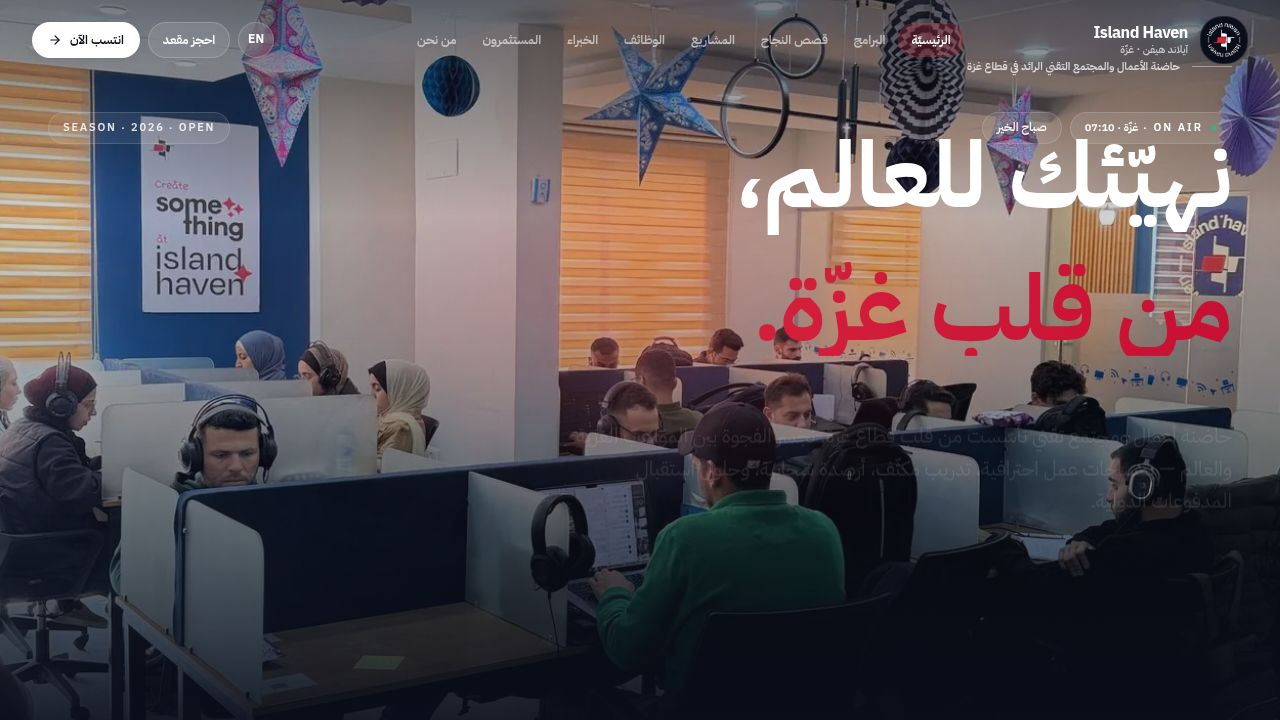
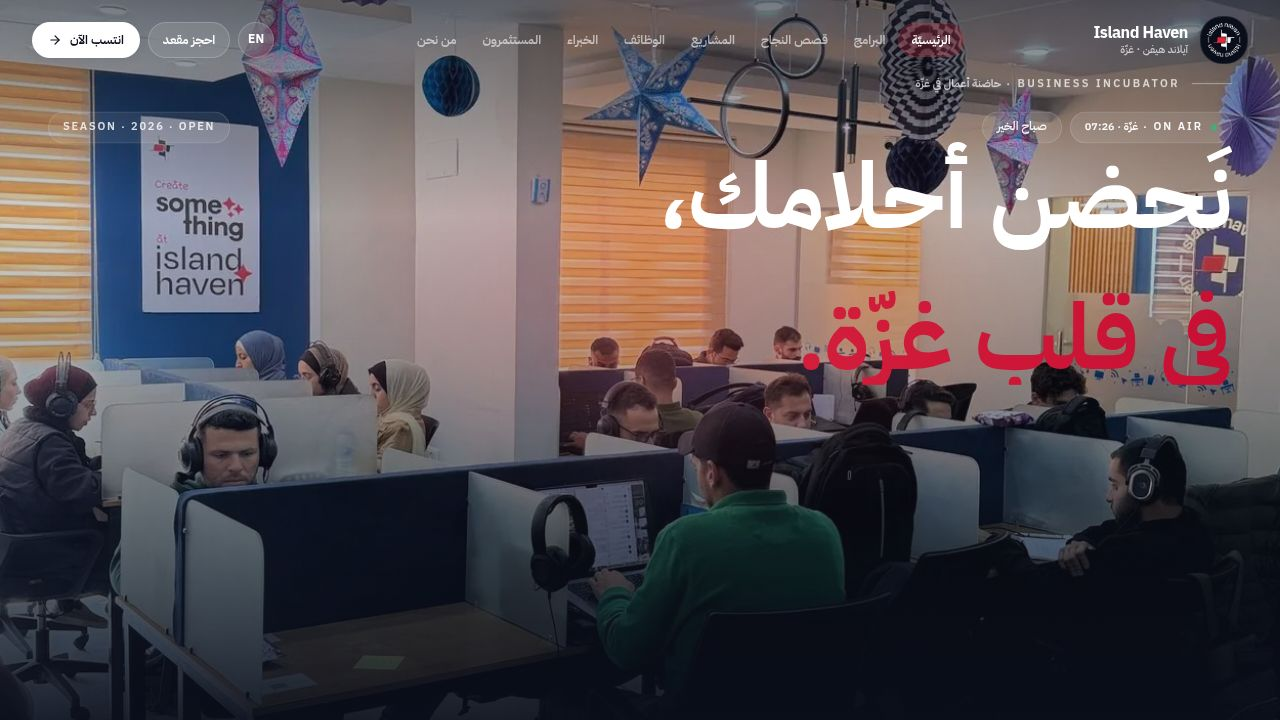
feat: ask for confirmation before replacing expert profile photo
Task: Ask for confirmation before deleting your profile photo

## What changed
- `artifacts/ih-haven/src/pages/ExpertDashboard.tsx` — ProfileEditCard component

## Implementation details
- Extracted the upload logic from `handleAvatarChange` into a new `doAvatarUpload(file)` helper
- `handleAvatarChange` now checks whether an existing avatar is present:
  - If yes: stores the selected file in `pendingAvatarFile` state and opens the confirmation dialog
  - If no (first-time upload): calls `doAvatarUpload` directly without interruption
- Added two new state variables: `pendingAvatarFile` (File | null) and `confirmAvatarOpen` (boolean)
- Added an `AlertDialog` (using the existing `@/components/ui/alert-dialog` shadcn component) rendered inside the GlassCard return
- Dialog is Arabic RTL, styled to match the dark theme (bg-[#0f1424], white/10 border, rounded-2xl)
- Cancel clears the pending file and resets the file input; Confirm proceeds with the upload
- No changes to the server-side API or any other component

## No deviations from task spec
All three acceptance criteria are met:
1. Confirmation dialog appears before an existing photo is replaced
2. Expert can cancel and keep their current photo
3. Only confirmed changes are sent to the server

Replit-Task-Id: 9313bce5-377e-4d24-86f3-402822ffbf04

diff --git a/artifacts/ih-haven/src/pages/ExpertDashboard.tsx b/artifacts/ih-haven/src/pages/ExpertDashboard.tsx
@@ -13,6 +13,16 @@ import {
   Camera,
 } from "lucide-react";
 import { PageShell, GlassCard, EmptyState } from "@/components/shell/PageShell";
+import {
+  AlertDialog,
+  AlertDialogContent,
+  AlertDialogHeader,
+  AlertDialogFooter,
+  AlertDialogTitle,
+  AlertDialogDescription,
+  AlertDialogAction,
+  AlertDialogCancel,
+} from "@/components/ui/alert-dialog";
 import { api, ApiError } from "@/lib/api";
 import { useAuth } from "@/lib/auth";
 import {
@@ -330,6 +340,8 @@ function ProfilePanel({
   const [avatarUploading, setAvatarUploading] = useState(false);
   const [avatarError, setAvatarError] = useState<string | null>(null);
   const avatarInputRef = useRef<HTMLInputElement | null>(null);
+  const [pendingAvatarFile, setPendingAvatarFile] = useState<File | null>(null);
+  const [confirmAvatarOpen, setConfirmAvatarOpen] = useState(false);
 
   useEffect(() => {
     setForm(profile);
@@ -345,9 +357,7 @@ function ProfilePanel({
     setForm((f) => (f ? { ...f, [k]: v } : f));
   }
 
-  async function handleAvatarChange(e: React.ChangeEvent<HTMLInputElement>) {
-    const file = e.target.files?.[0];
-    if (!file || avatarUploading) return;
+  async function doAvatarUpload(file: File) {
     setAvatarError(null);
     setAvatarUploading(true);
     try {
@@ -379,6 +389,17 @@ function ProfilePanel({
     } finally {
       setAvatarUploading(false);
       if (avatarInputRef.current) avatarInputRef.current.value = "";
+    }
+  }
+
+  function handleAvatarChange(e: React.ChangeEvent<HTMLInputElement>) {
+    const file = e.target.files?.[0];
+    if (!file || avatarUploading) return;
+    if (form?.avatarUrl) {
+      setPendingAvatarFile(file);
+      setConfirmAvatarOpen(true);
+    } else {
+      doAvatarUpload(file);
     }
   }
 
@@ -556,6 +577,42 @@ function ProfilePanel({
           {busy ? "…" : "حفظ الملف"}
         </button>
       </div>
+
+      <AlertDialog open={confirmAvatarOpen} onOpenChange={setConfirmAvatarOpen}>
+        <AlertDialogContent
+          dir="rtl"
+          className="bg-[#0f1424] border border-white/10 text-white rounded-2xl max-w-sm"
+        >
+          <AlertDialogHeader>
+            <AlertDialogTitle className="text-white text-[15px] font-bold">
+              استبدال الصورة الشخصية؟
+            </AlertDialogTitle>
+            <AlertDialogDescription className="text-white/55 text-[13px]">
+              سيُستبدل صورتك الحالية بالصورة الجديدة. لا يمكن التراجع عن هذا الإجراء.
+            </AlertDialogDescription>
+          </AlertDialogHeader>
+          <AlertDialogFooter className="gap-2 mt-1">
+            <AlertDialogCancel
+              onClick={() => {
+                setPendingAvatarFile(null);
+                if (avatarInputRef.current) avatarInputRef.current.value = "";
+              }}
+              className="flex-1 rounded-xl border-white/15 bg-white/[0.06] text-white hover:bg-white/10 hover:text-white"
+            >
+              إلغاء
+            </AlertDialogCancel>
+            <AlertDialogAction
+              onClick={() => {
+                if (pendingAvatarFile) doAvatarUpload(pendingAvatarFile);
+                setPendingAvatarFile(null);
+              }}
+              className="flex-1 rounded-xl bg-primary text-white hover:bg-primary/90"
+            >
+              استبدال
+            </AlertDialogAction>
+          </AlertDialogFooter>
+        </AlertDialogContent>
+      </AlertDialog>
     </GlassCard>
   );
 }